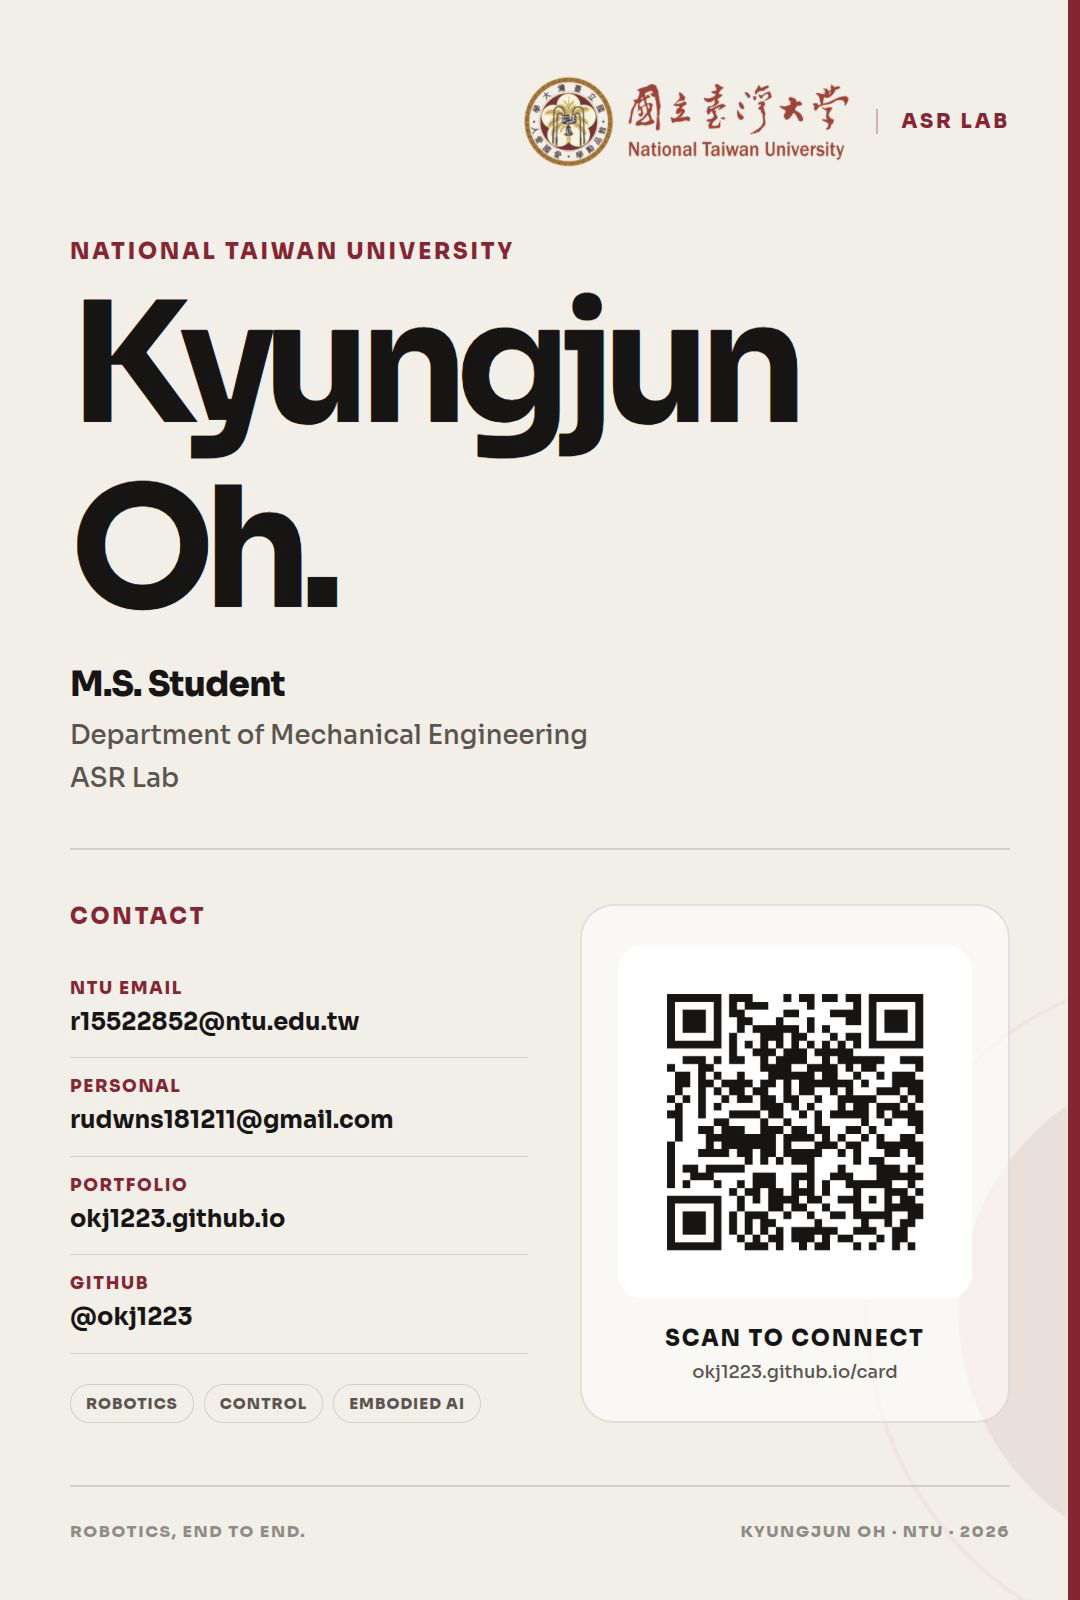
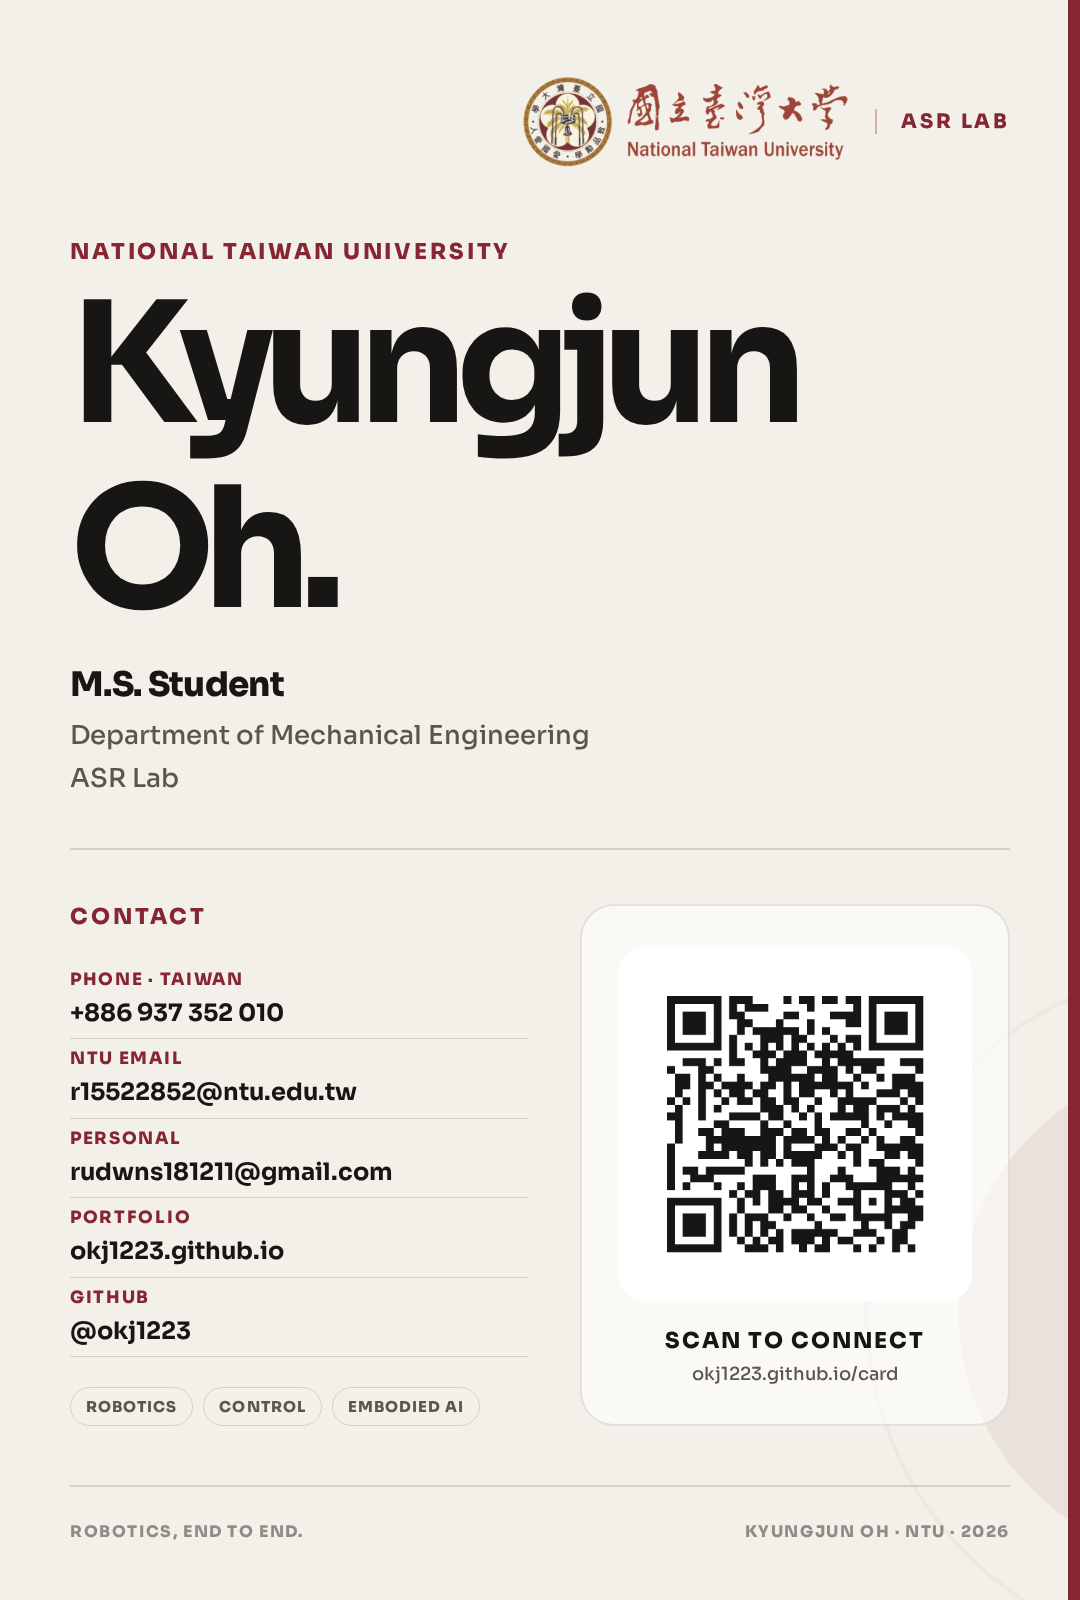
Add Taiwan phone number to contact card

diff --git a/card/index.html b/card/index.html
@@ -73,7 +73,7 @@ js:
         <span aria-hidden="true">↓</span>
         <span>Save contact</span>
       </a>
-      <a class="contact-card-action contact-card-action--secondary" href="{{ '/assets/img/contact-card/kyungjun-oh-contact-card.png' | relative_url }}" data-save-card-image>
+      <a class="contact-card-action contact-card-action--secondary" href="{{ '/assets/img/contact-card/kyungjun-oh-contact-card.png' | relative_url }}?v={{ site.time | date: '%s' }}" data-save-card-image>
         <span aria-hidden="true">↓</span>
         <span data-save-image-label>Save card image</span>
       </a>
@@ -85,6 +85,10 @@ js:
     </nav>
 
     <dl class="contact-card-details">
+      <div class="contact-card-detail">
+        <dt>Phone · Taiwan</dt>
+        <dd><a href="tel:+886937352010">0937 352 010</a></dd>
+      </div>
       <div class="contact-card-detail">
         <dt>NTU email</dt>
         <dd><a href="mailto:r15522852@ntu.edu.tw">r15522852@ntu.edu.tw</a></dd>

diff --git a/card/image.html b/card/image.html
@@ -33,6 +33,10 @@ css:
       <p class="contact-card-image-kicker">Contact</p>
       <dl>
         <div>
+          <dt>Phone · Taiwan</dt>
+          <dd>+886 937 352 010</dd>
+        </div>
+        <div>
           <dt>NTU email</dt>
           <dd>r15522852@ntu.edu.tw</dd>
         </div>

diff --git a/assets/css/contact-card-image.css b/assets/css/contact-card-image.css
@@ -152,7 +152,7 @@ body.contact-card-image-page::before {
 }
 
 .contact-card-image-contact dl div {
-  padding: 18px 0 19px;
+  padding: 9px 0;
   border-bottom: 1px solid var(--image-card-line);
 }
 
